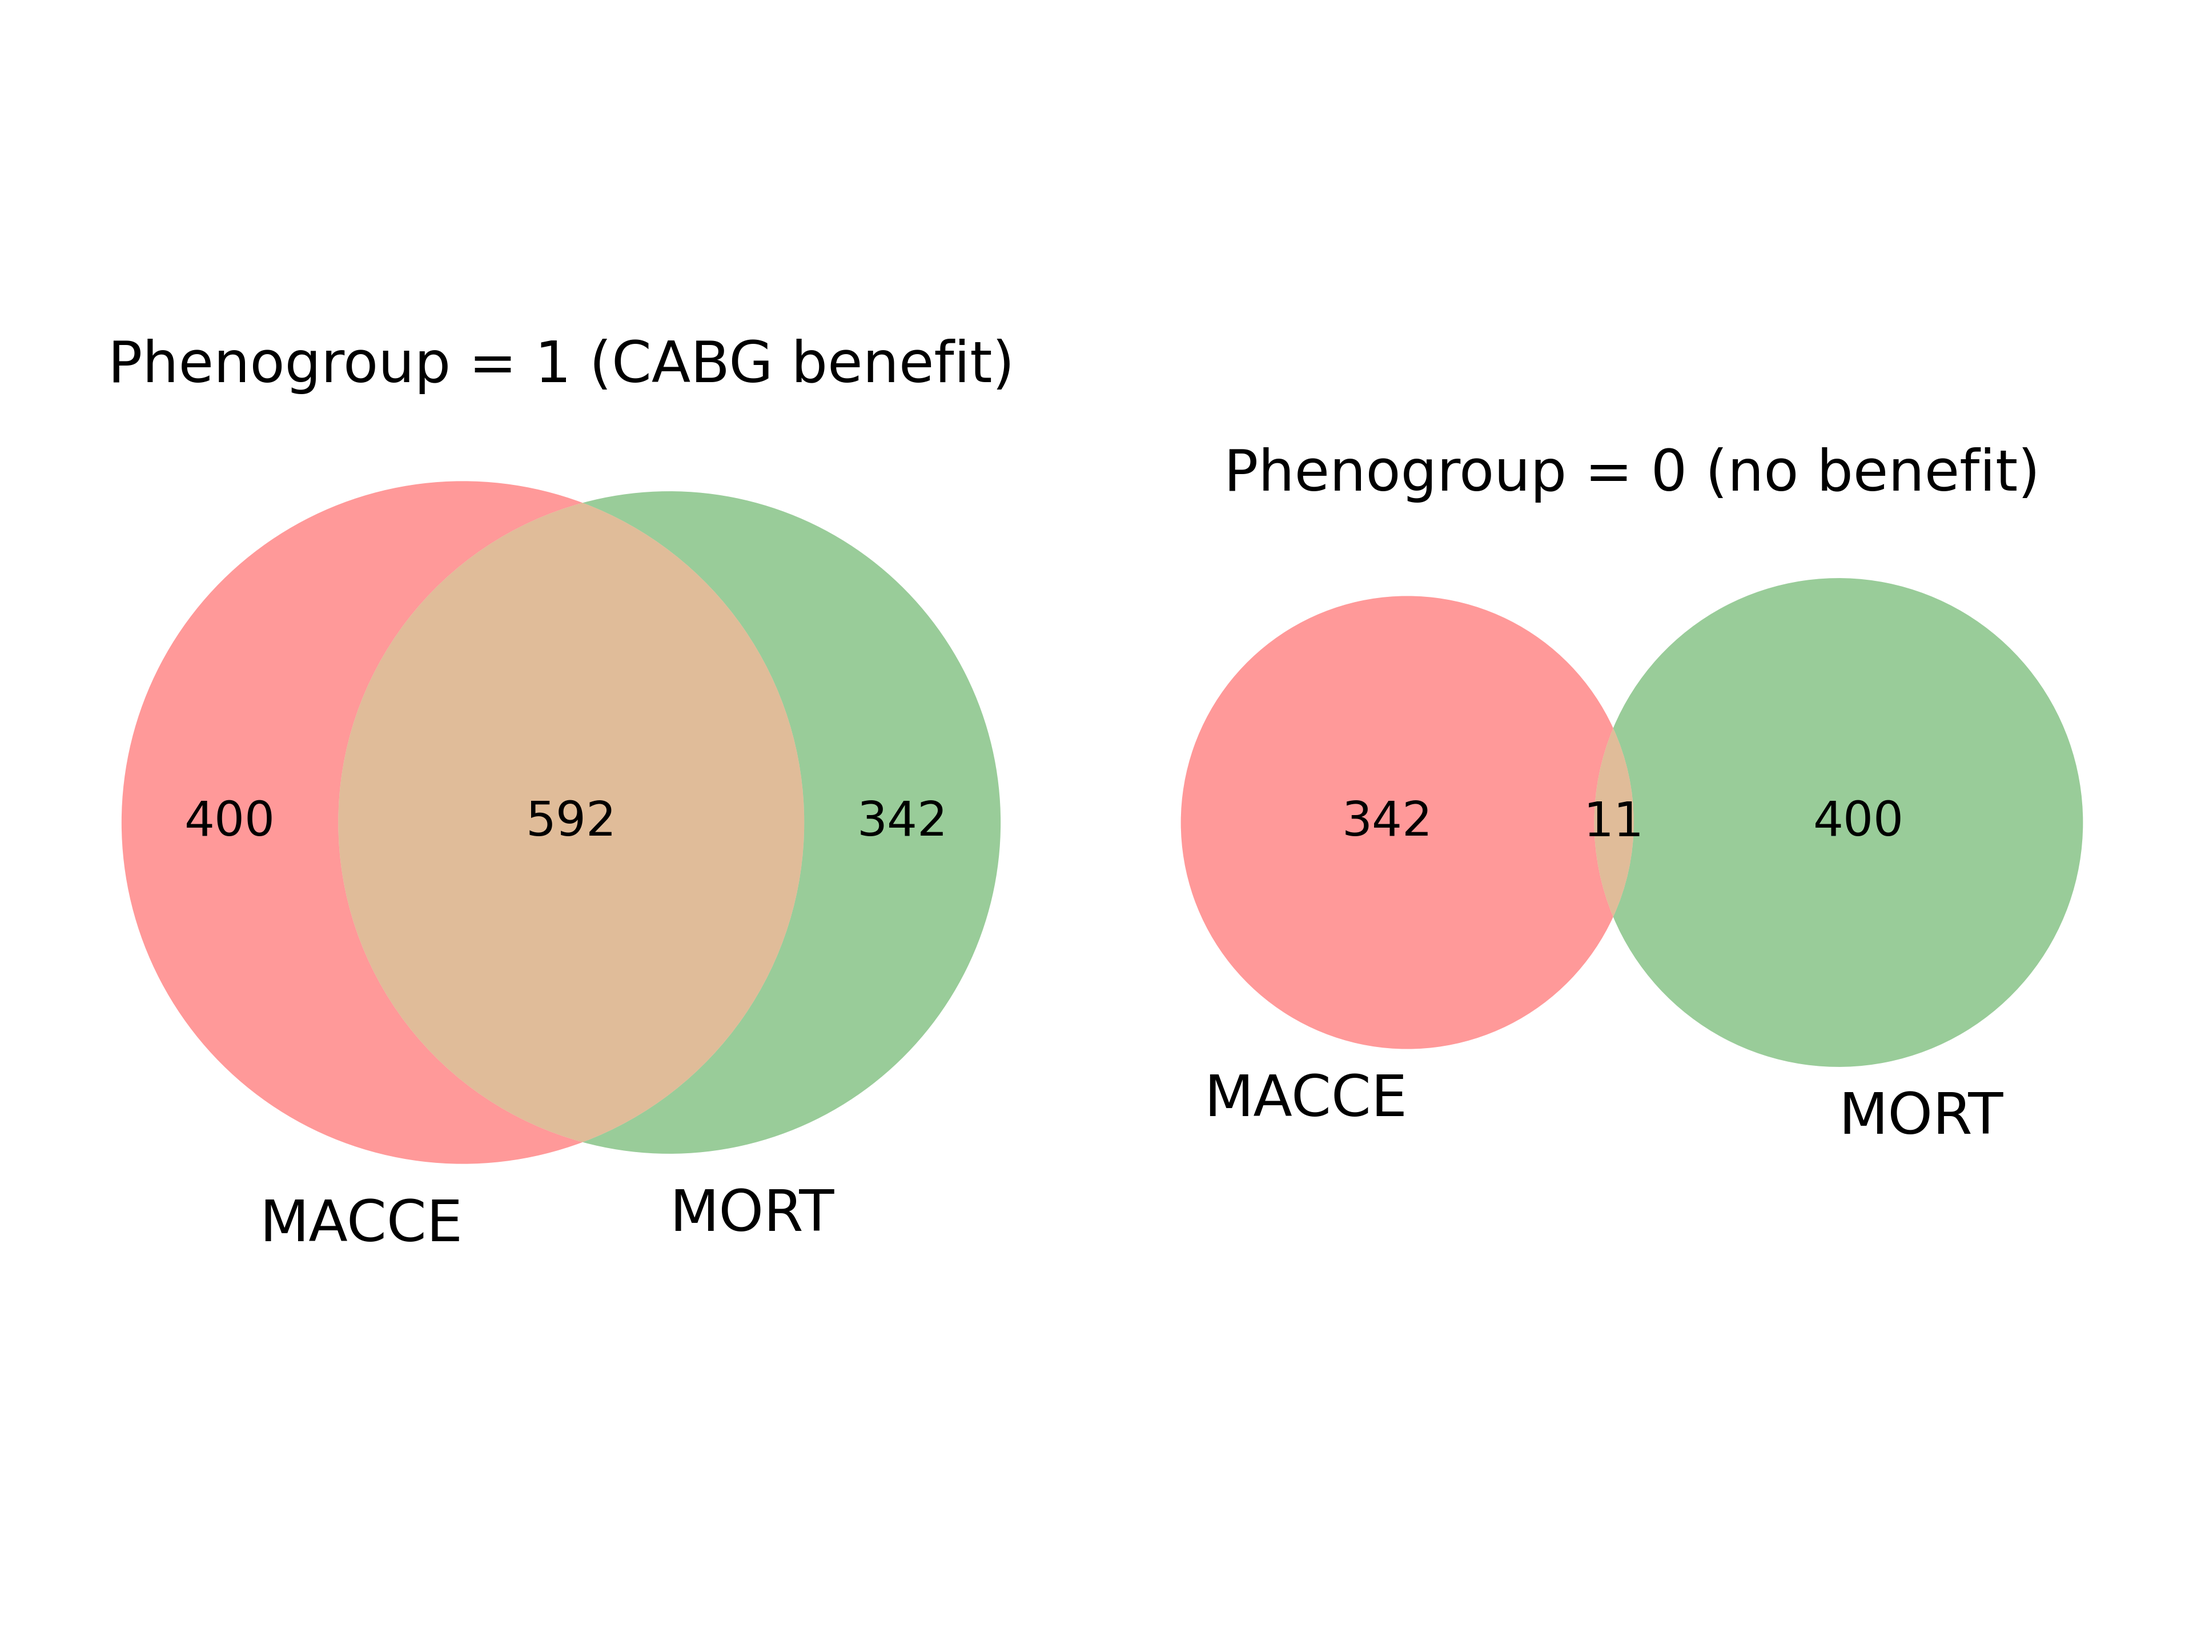
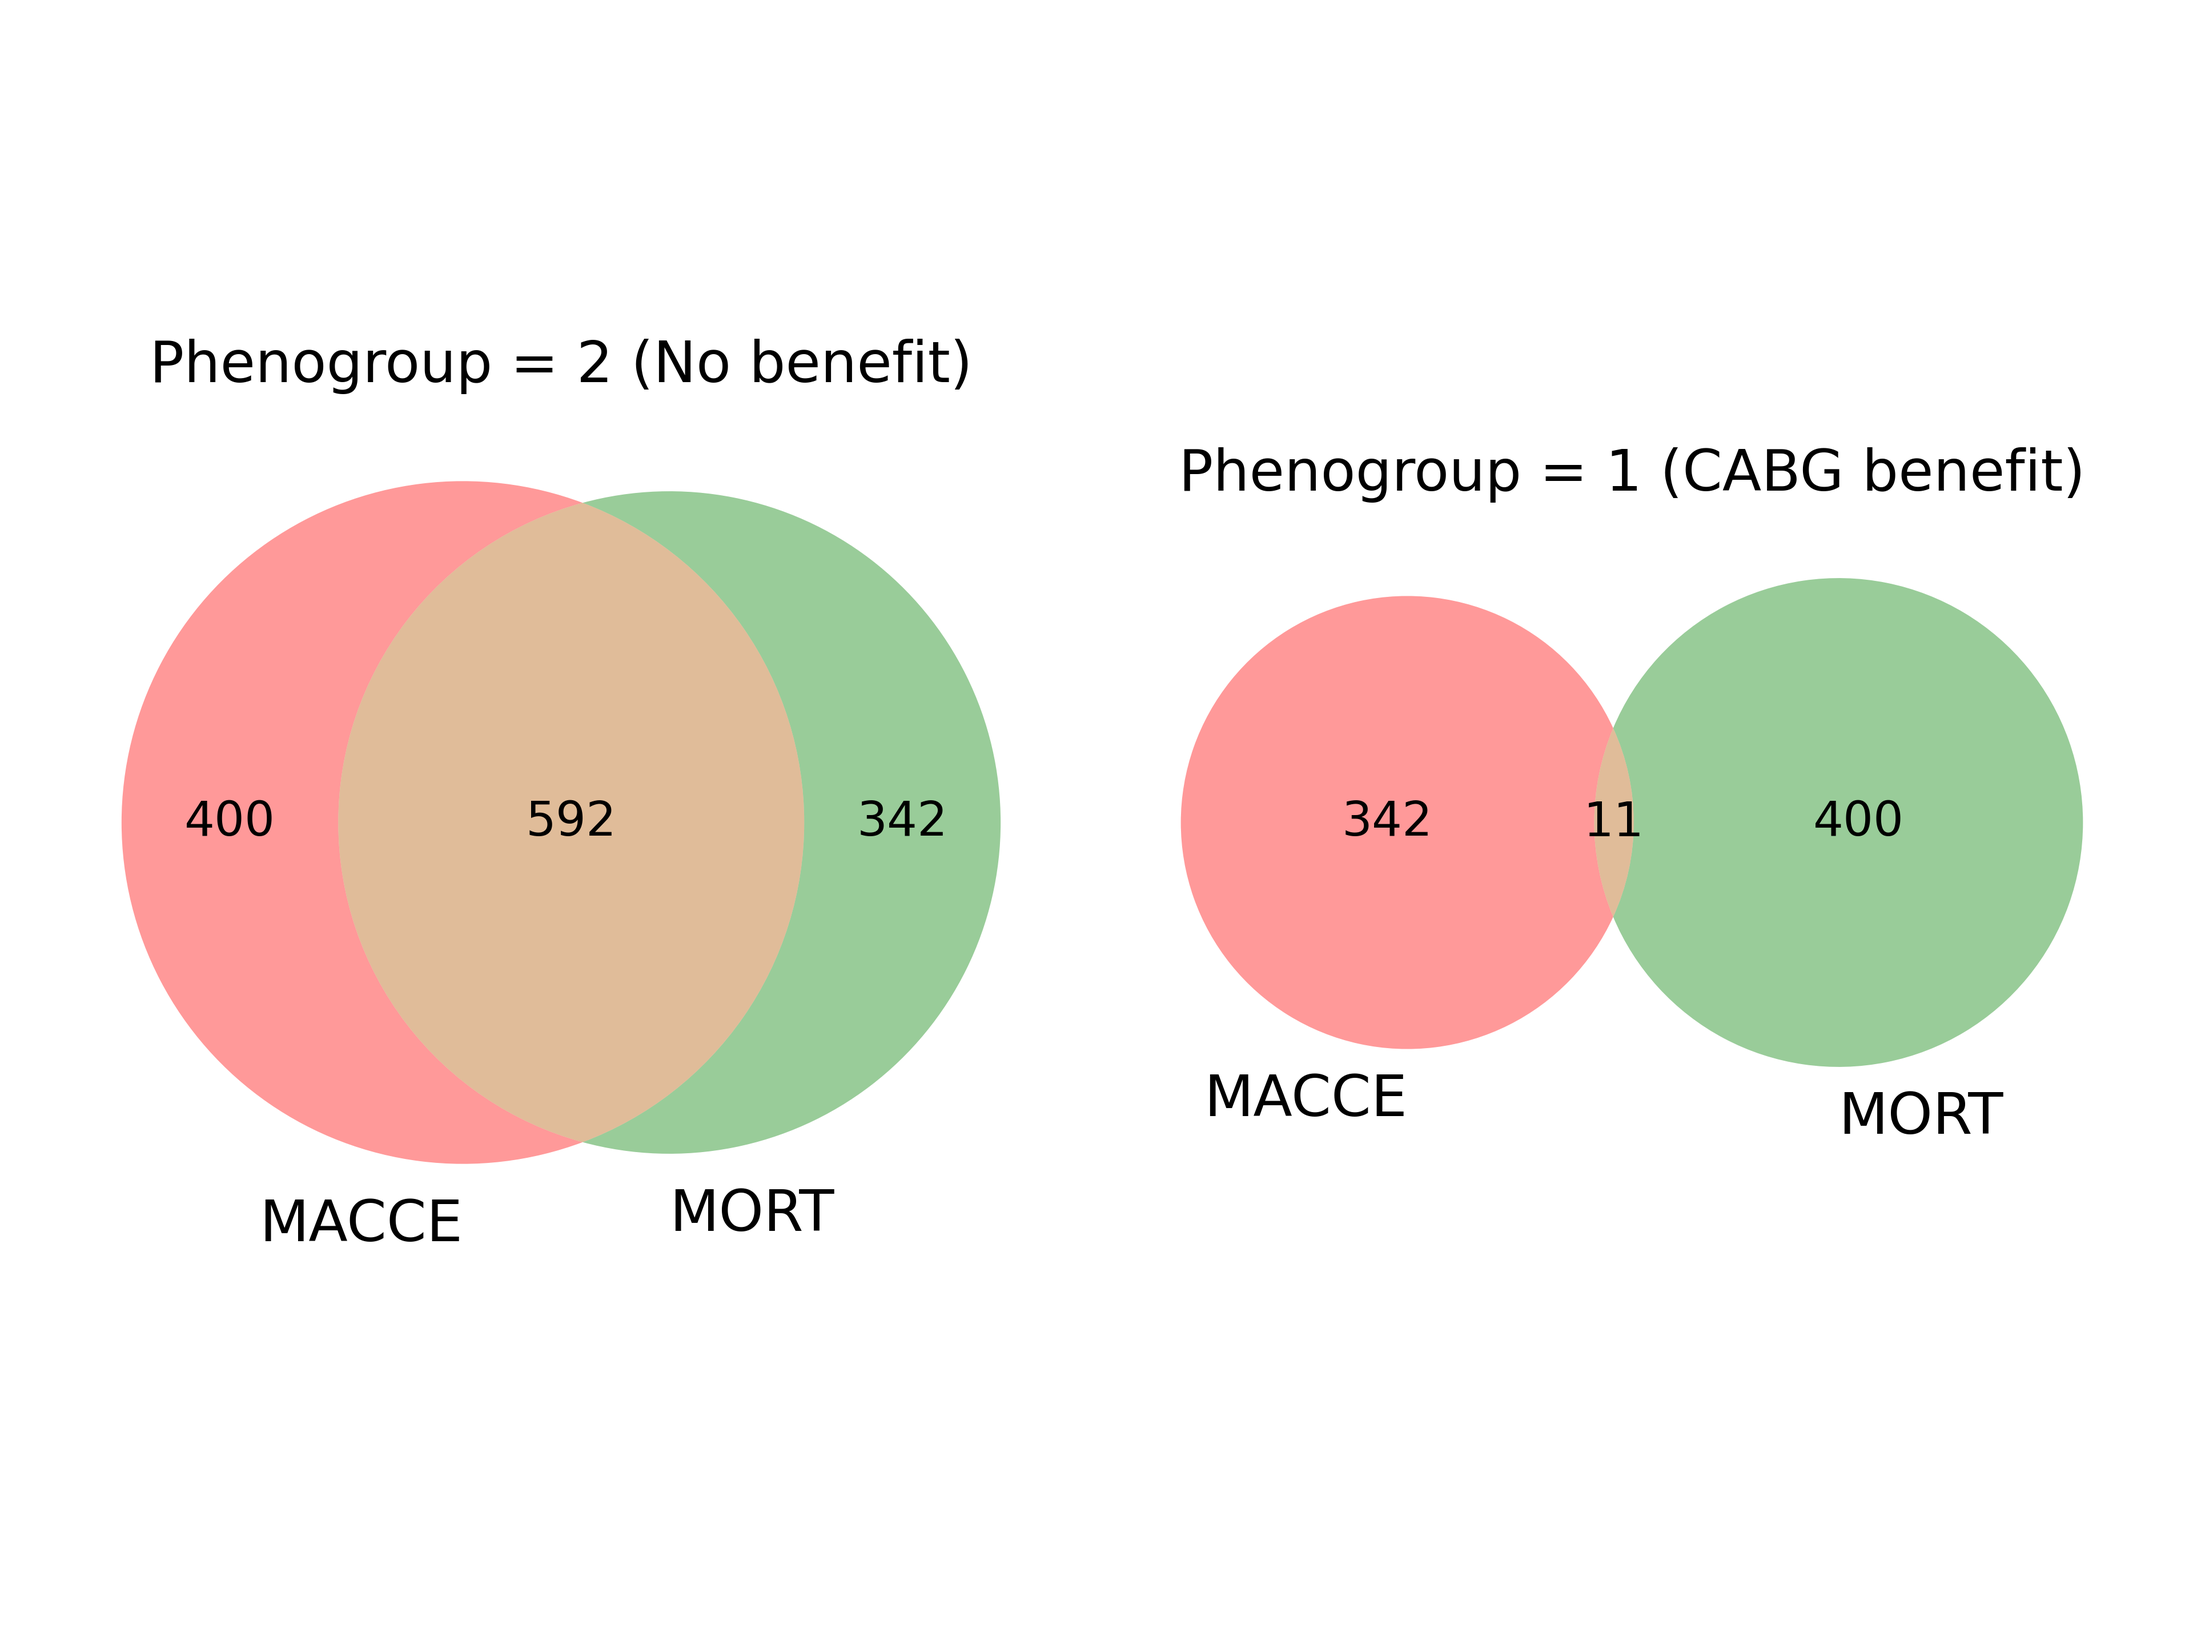
minor tweaks to figures

Changed region(s): [[0.0625, 0.1875, 0.4688, 0.25], [0.5312, 0.25, 0.9375, 0.3125]]

diff --git a/src/create_figs.py b/src/create_figs.py
@@ -20,19 +20,19 @@ def venn_diagram(save=True):
     macce_df = pd.concat([data, macce_ptype_data], axis=1, join='inner')
 
     # Create venn-diagram sets
-    # Venn-diagram phenotypes = 1
+    # Venn-diagram phenotypes = 2 (No benefit)
     mort_set_one = set(df.index[df['phenotypes']==1])
     mace_set_one = set(macce_df.index[macce_df['phenotypes']==1])
     plt.subplot(1,2,1)
     venn2([mace_set_one, mort_set_one], ('MACCE', 'MORT'))
-    plt.title('Phenogroup = 1 (CABG benefit)')
+    plt.title('Phenogroup = 2 (No benefit)')
 
-    # Venn-diagram phenotypes = 0
+    # Venn-diagram phenotypes = 1 (CABG benefit)
     mort_set_z = set(df.index[df['phenotypes']==0])
     mace_set_z = set(macce_df.index[macce_df['phenotypes']==0])
     plt.subplot(1,2,2)
     venn2([mace_set_z, mort_set_z], ('MACCE', 'MORT'))
-    plt.title('Phenogroup = 0 (no benefit)')
+    plt.title('Phenogroup = 1 (CABG benefit)')
 
     if save:
         plt.tight_layout()
@@ -62,9 +62,9 @@ def histogram(save=True):
     
     
     # Add labels and title
-    plt.xlabel('STS Predicated Mortality (%)')
+    plt.xlabel('STS Predicted Mortality (%)')
     plt.ylabel('Frequency')
-    plt.title('Phenotype = 0 (no benefit)')
+    plt.title('Phenotype = 1 (CABG benefit)')
 
 
     plt.subplot(2, 2, 2) 
@@ -77,9 +77,9 @@ def histogram(save=True):
     plt.text(10*0.5,top*0.8,'median: '+str(round(med, 2))+'%')
     
     # Add labels and title
-    plt.xlabel('STS Predicated Mortality (%)')
+    plt.xlabel('STS Predicted Mortality (%)')
     plt.ylabel('Frequency')
-    plt.title('Phenotype = 1 (CABG benefit)')
+    plt.title('Phenotype = 2 (No benefit)')
 
     ### MACCE ###
     # Import MACCE data
@@ -97,9 +97,9 @@ def histogram(save=True):
     plt.text(50*0.5,top*0.8,'median: '+str(round(med, 2))+'%')
 
     # Add labels and title
-    plt.xlabel('STS Predicated MM (%)')
+    plt.xlabel('STS Predicted MM (%)')
     plt.ylabel('Frequency')
-    plt.title('Phenotype = 0 (no benefit)')
+    plt.title('Phenotype = 1 (CABG benefit)')
 
 
     plt.subplot(2, 2, 4) 
@@ -113,9 +113,9 @@ def histogram(save=True):
     
 
     # Add labels and title
-    plt.xlabel('STS Predicated MM (%)')
+    plt.xlabel('STS Predicted MM (%)')
     plt.ylabel('Frequency')
-    plt.title('Phenotype = 1 (CABG benefit)')
+    plt.title('Phenotype = 2 (No benefit)')
 
     if save:
         # Save the plot
@@ -321,7 +321,7 @@ def km_curves(outcome = 'mortality', save=True):
                 ax.set_ylim([0.48, 1])
             ax.tick_params(axis="y", labelsize=26)
             ax.tick_params(axis="x", labelsize=26)
-            
+
             # By default, we use the at-risk count from the end of the period. 
             if plot_counts[0]:
                 xticks = np.array([0., 2., 4., 6., 8., 10., 11.])
@@ -397,7 +397,9 @@ def km_curves(outcome = 'mortality', save=True):
 
     ax2.set_xlabel('')
     ax2.tick_params(labelleft=False)
-    
+    ax1.tick_params(bottom=False)
+
+
     ax1.get_legend().remove()
     ax2.get_legend().remove()
     lines_labels = [ax.get_legend_handles_labels() for ax in [ax1, ax2]]

diff --git a/src/model.py b/src/model.py
@@ -295,7 +295,8 @@ def fit_CMHE(x, t, e, a):
     # model = model.fit(x, t, e, a, vsize=vsize, val_data=(x_vl, t_vl, e_vl, a_vl), iters=iters,
     #                 learning_rate=learning_rate, batch_size=batch_size,
     #                 optimizer=optimizer, patience=patience)
-    # print(f'Treatment Effect for the {g} groups: {model.torch_model[0].omega.detach()}')
+    
+    print(f'Treatment Effect for the {g} groups: {model.torch_model[0].omega.detach()}')
 
     zeta_train = predict_CMHE(model, x)
     
